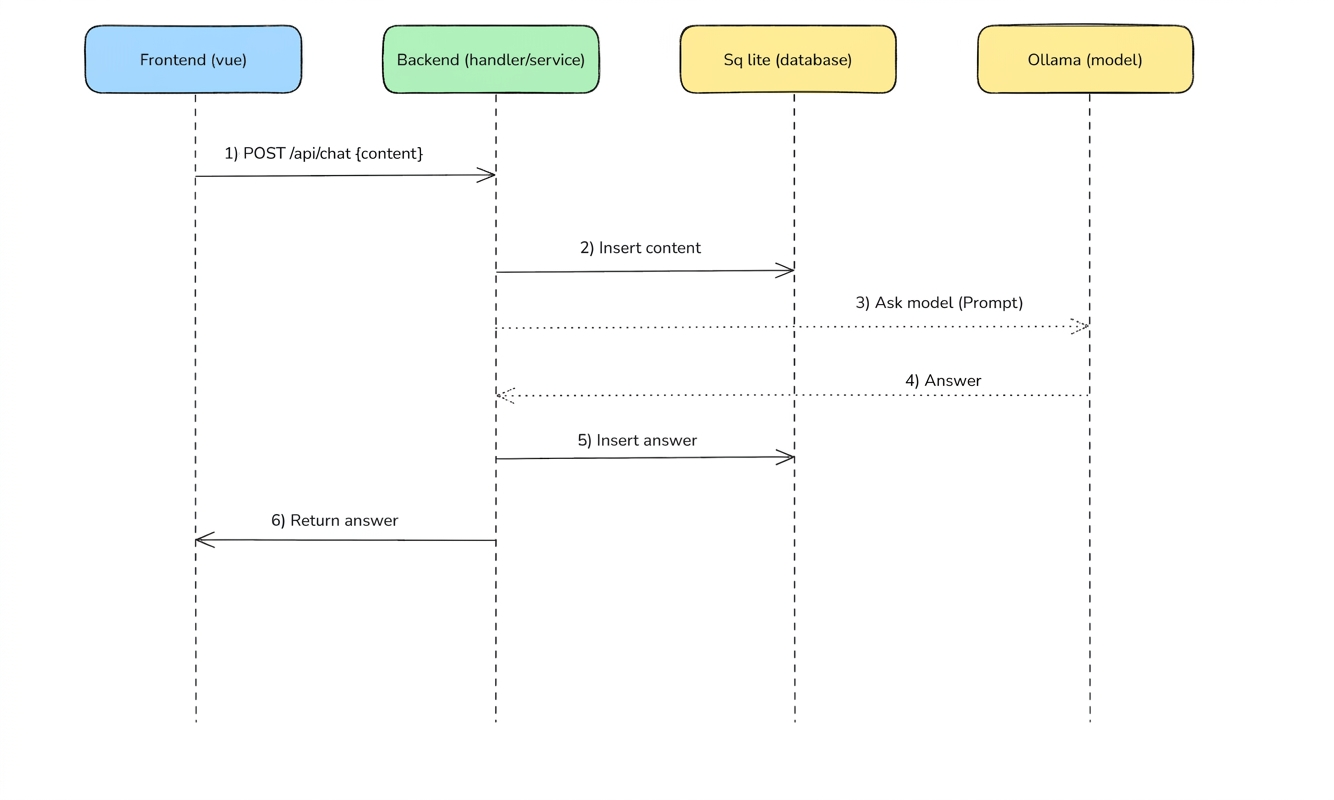
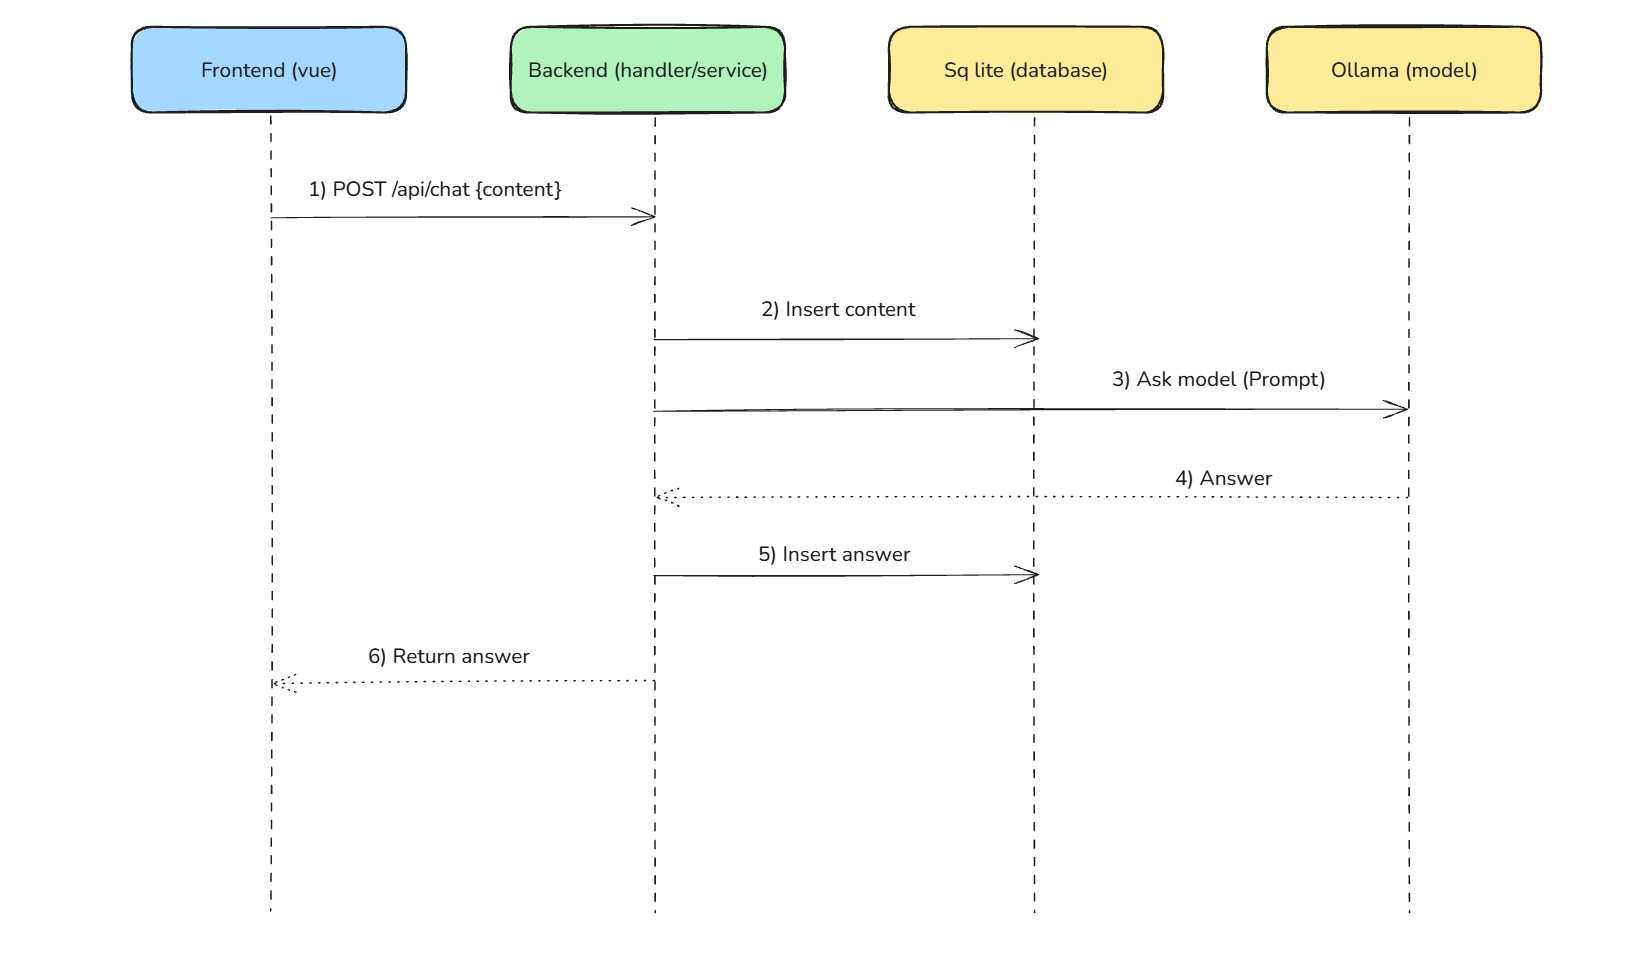
Overwrite remote with local project

diff --git a/frontend/src/App.vue b/frontend/src/App.vue
@@ -5,7 +5,8 @@ import TopHeader from './components/TopHeader.vue'
 import WelcomeScreen from './components/WelcomeScreen.vue'
 import ChatWorkspace from './components/ChatWorkspace.vue'
 import BackendButton from './components/BackendButton.vue'
-import { Postrecord, Postchat, type ChatRecord } from './Api/record'
+import { Postrecord, Postchat } from './Api/record'
+import type { ChatRecord } from './Api/record'
 
 interface Session {
   id: number
@@ -80,22 +81,20 @@ async function handleSend(userText: string) {
 
     const sessionId = currentId.value!
 
-    // 2. Display & persist the user message
+    // 2. Display the user message immediately
     messages.value.push({
       role: 'user',
       words: [],
       rawText: userText
     })
-    await Postchat(sessionId, { content: userText, source: 'user' })
 
-    // 3. Generate, persist, and stream the model response
+    // 3. Send { prompt } -> backend inserts user + model rows -> returns { answer }
     isGenerating.value = true
-    const mockResponse = `Thank you for reaching out! Based on your query regarding "${userText}", here is the relevant information retrieved from our knowledge base. Please let me know if you need further assistance.`
-    await Postchat(sessionId, { content: mockResponse, source: 'model' })
+    const res = await Postchat(sessionId, { prompt: userText })
+    const aiAnswer = res.answer || res.data?.content || 'No response from model.'
 
-    setTimeout(() => {
-      streamWordsEffect(mockResponse)
-    }, 300)
+    // 4. Stream the real AI answer in the UI
+    streamWordsEffect(aiAnswer)
   } catch (err) {
     console.error('Failed to send message:', err)
     isGenerating.value = false

diff --git a/frontend/src/Api/record.ts b/frontend/src/Api/record.ts
@@ -34,7 +34,7 @@ export function Getchat(sessionId: string | number): Promise<ChatRecord[]> {
 
 export function Postchat(
   sessionId: string | number,
-  payload: { content: string; source: 'user' | 'model' }
+  payload: { prompt: string }
 ) {
   return api.post(`/api/chat/${sessionId}`, payload).then(function (data) {
     return data

diff --git a/backend/service.go b/backend/service.go
@@ -1,7 +1,11 @@
 package main
 
 import (
+	"bytes"
 	"context"
+	"encoding/json"
+	"fmt"
+	"net/http"
 	"time"
 
 	"internship-2026/model"
@@ -22,6 +26,16 @@ type ChatData struct {
 	CreateTime time.Time `json:"createtime"`
 }
 
+type ollamaGenerateRequest struct {
+	Model  string `json:"model"`
+	Prompt string `json:"prompt"`
+	Stream bool   `json:"stream"`
+}
+
+type ollamaGenerateResponse struct {
+	Response string `json:"response"`
+}
+
 func toRecordData(r model.Record) RecordData {
 	return RecordData{
 		ID:         r.ID,
@@ -37,6 +51,45 @@ func toChatData(c model.Chat) ChatData {
 		Source:     c.Source,
 		CreateTime: c.CreateTime,
 	}
+}
+
+// --- Ollama AI Helper ---
+
+func askModel(ctx context.Context, prompt string) (string, error) {
+	reqPayload := ollamaGenerateRequest{
+		Model:  "qwen2.5:1.5b",
+		Prompt: prompt,
+		Stream: false,
+	}
+
+	jsonBytes, err := json.Marshal(reqPayload)
+	if err != nil {
+		return "", err
+	}
+
+	req, err := http.NewRequestWithContext(ctx, http.MethodPost, "http://127.0.0.1:11434/api/generate", bytes.NewBuffer(jsonBytes))
+	if err != nil {
+		return "", err
+	}
+	req.Header.Set("Content-Type", "application/json")
+
+	client := &http.Client{Timeout: 60 * time.Second}
+	resp, err := client.Do(req)
+	if err != nil {
+		return "", fmt.Errorf("failed to connect to Ollama: %w", err)
+	}
+	defer resp.Body.Close()
+
+	if resp.StatusCode != http.StatusOK {
+		return "", fmt.Errorf("ollama returned status %d", resp.StatusCode)
+	}
+
+	var result ollamaGenerateResponse
+	if err := json.NewDecoder(resp.Body).Decode(&result); err != nil {
+		return "", err
+	}
+
+	return result.Response, nil
 }
 
 // --- Record (Session) Services ---
@@ -99,4 +152,26 @@ func createChatService(ctx context.Context, sessionID uint, content string, sour
 		return ChatData{}, err
 	}
 	return toChatData(chat), nil
+}
+
+// askAndSaveChatService saves the user prompt, queries Ollama, saves the model reply, and returns the model reply.
+func askAndSaveChatService(ctx context.Context, sessionID uint, prompt string) (ChatData, error) {
+	// 1. Insert "user message" into SQLite
+	if _, err := createChatService(ctx, sessionID, prompt, "user"); err != nil {
+		return ChatData{}, err
+	}
+
+	// 2. Call askModel(prompt) on Ollama
+	answer, err := askModel(ctx, prompt)
+	if err != nil {
+		return ChatData{}, err
+	}
+
+	// 3. Insert "model reply" into SQLite
+	modelChat, err := createChatService(ctx, sessionID, answer, "model")
+	if err != nil {
+		return ChatData{}, err
+	}
+
+	return modelChat, nil
 }

diff --git a/backend/handler.go b/backend/handler.go
@@ -47,26 +47,33 @@ func postChatHandler(c *gin.Context) {
 	}
 
 	var body struct {
-		Content string `json:"content" binding:"required"`
-		Source  string `json:"source" binding:"required"`
+		Prompt  string `json:"prompt"`
+		Content string `json:"content"`
 	}
 	if err := c.ShouldBindJSON(&body); err != nil {
 		c.JSON(http.StatusBadRequest, gin.H{"error": err.Error()})
 		return
 	}
-	if body.Source != "user" && body.Source != "model" {
-		c.JSON(http.StatusBadRequest, gin.H{"error": "source must be 'user' or 'model'"})
+
+	prompt := body.Prompt
+	if prompt == "" {
+		prompt = body.Content
+	}
+	if prompt == "" {
+		c.JSON(http.StatusBadRequest, gin.H{"error": "prompt is required"})
 		return
 	}
 
-	chat, err := createChatService(c.Request.Context(), uint(sessionID), body.Content, body.Source)
+	modelChat, err := askAndSaveChatService(c.Request.Context(), uint(sessionID), prompt)
 	if err != nil {
 		c.JSON(http.StatusInternalServerError, gin.H{"error": err.Error()})
 		return
 	}
+
 	c.JSON(http.StatusCreated, gin.H{
 		"message": "created",
-		"data":    chat,
+		"answer":  modelChat.Content,
+		"data":    modelChat,
 	})
 }
 
